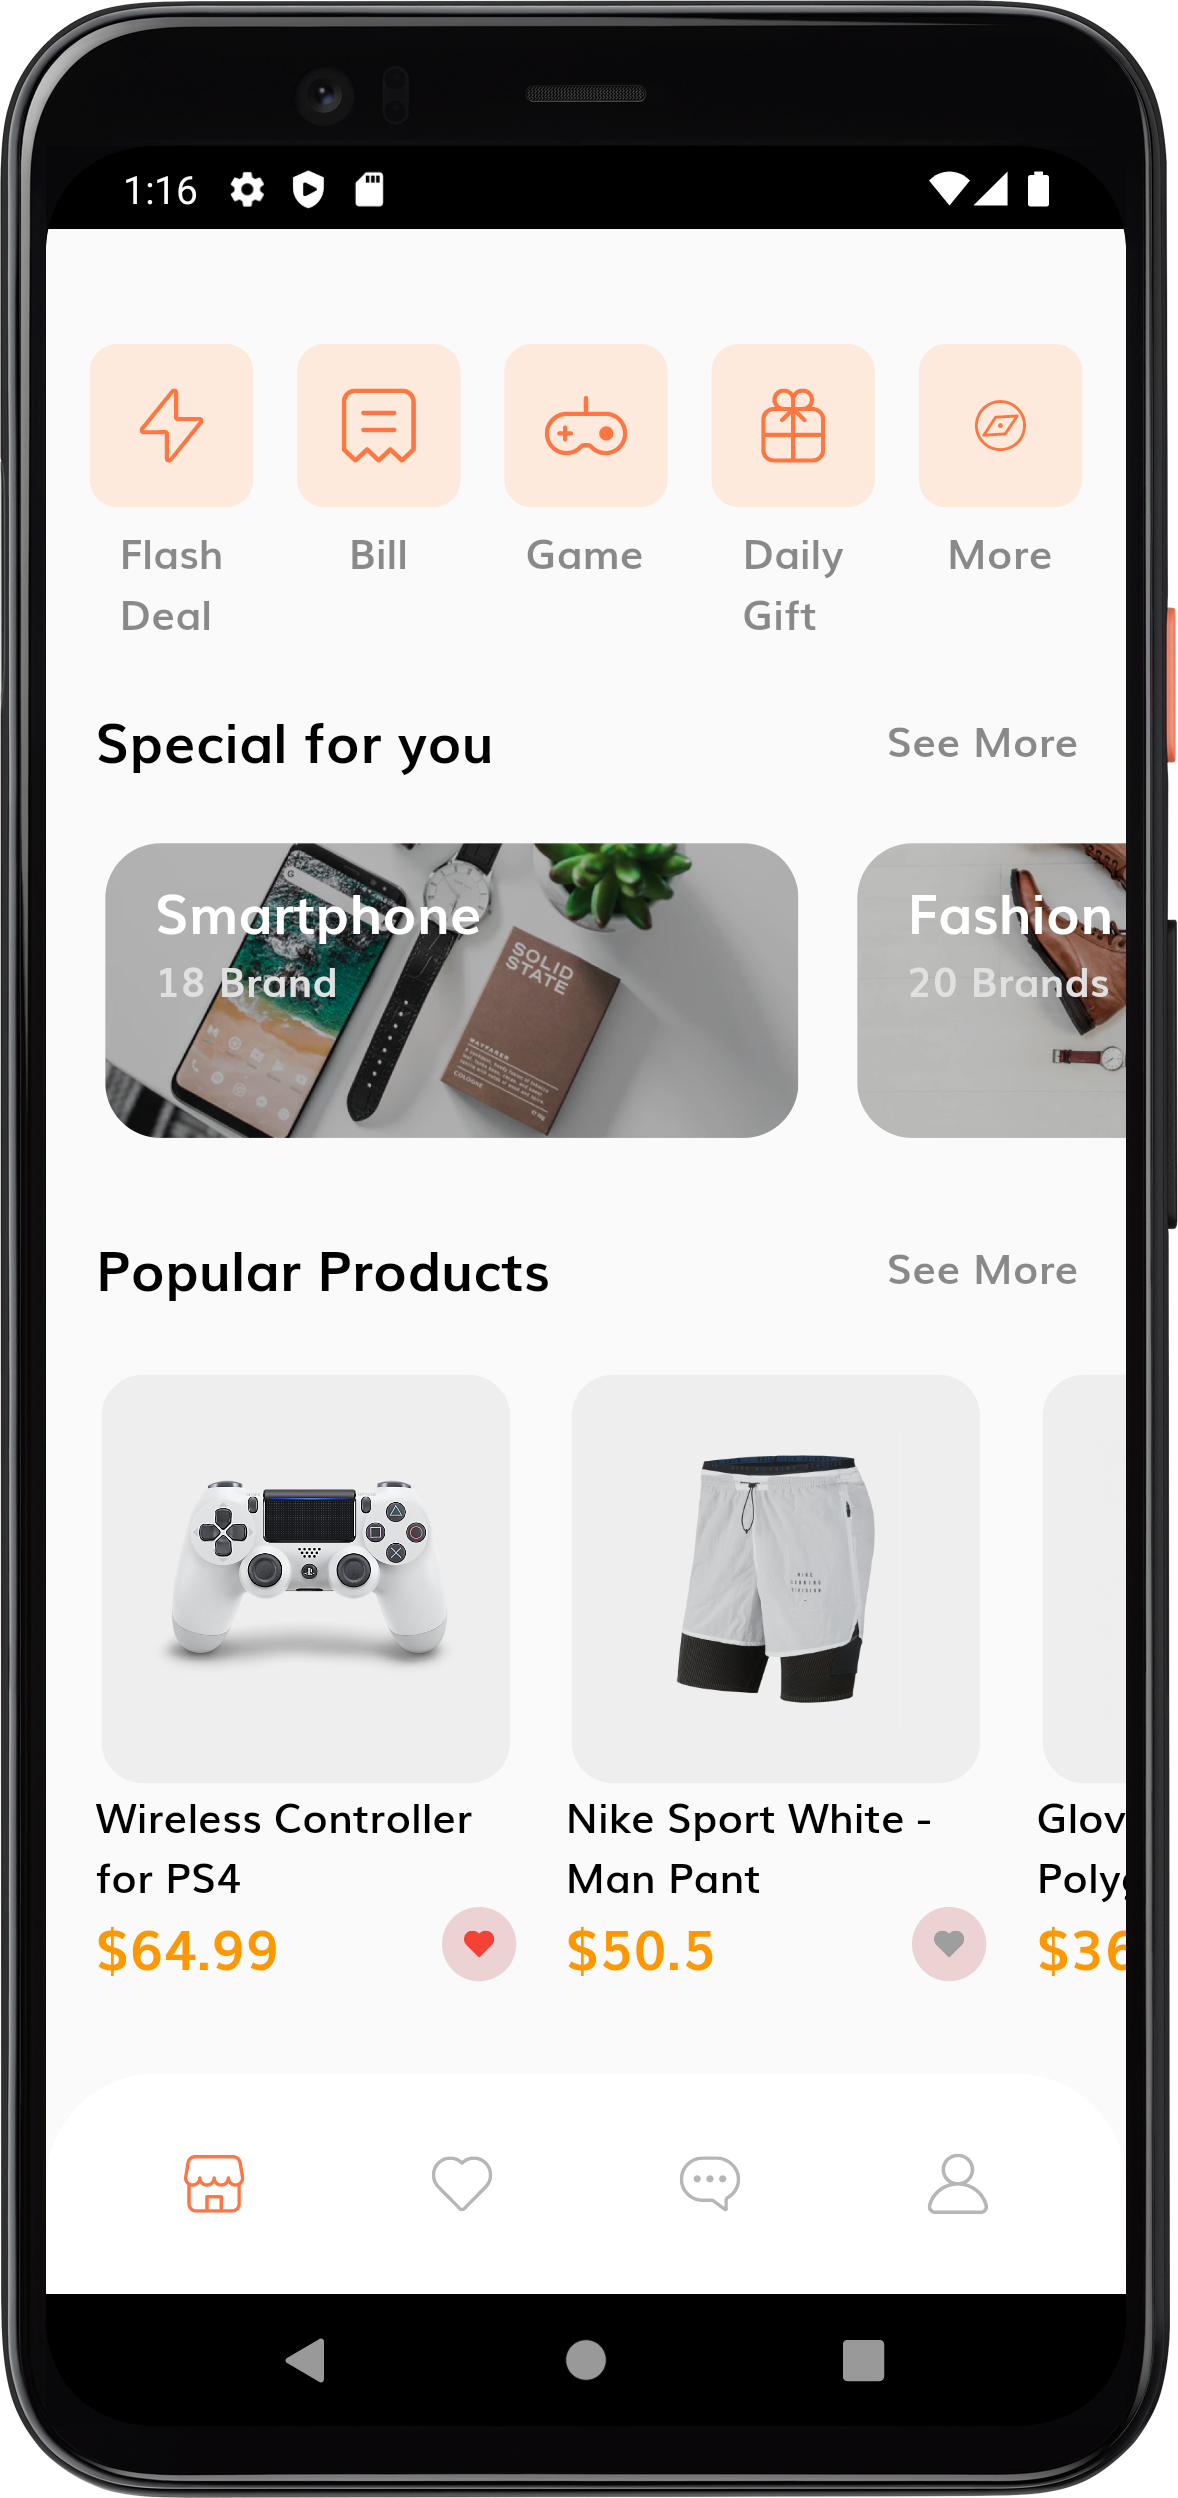
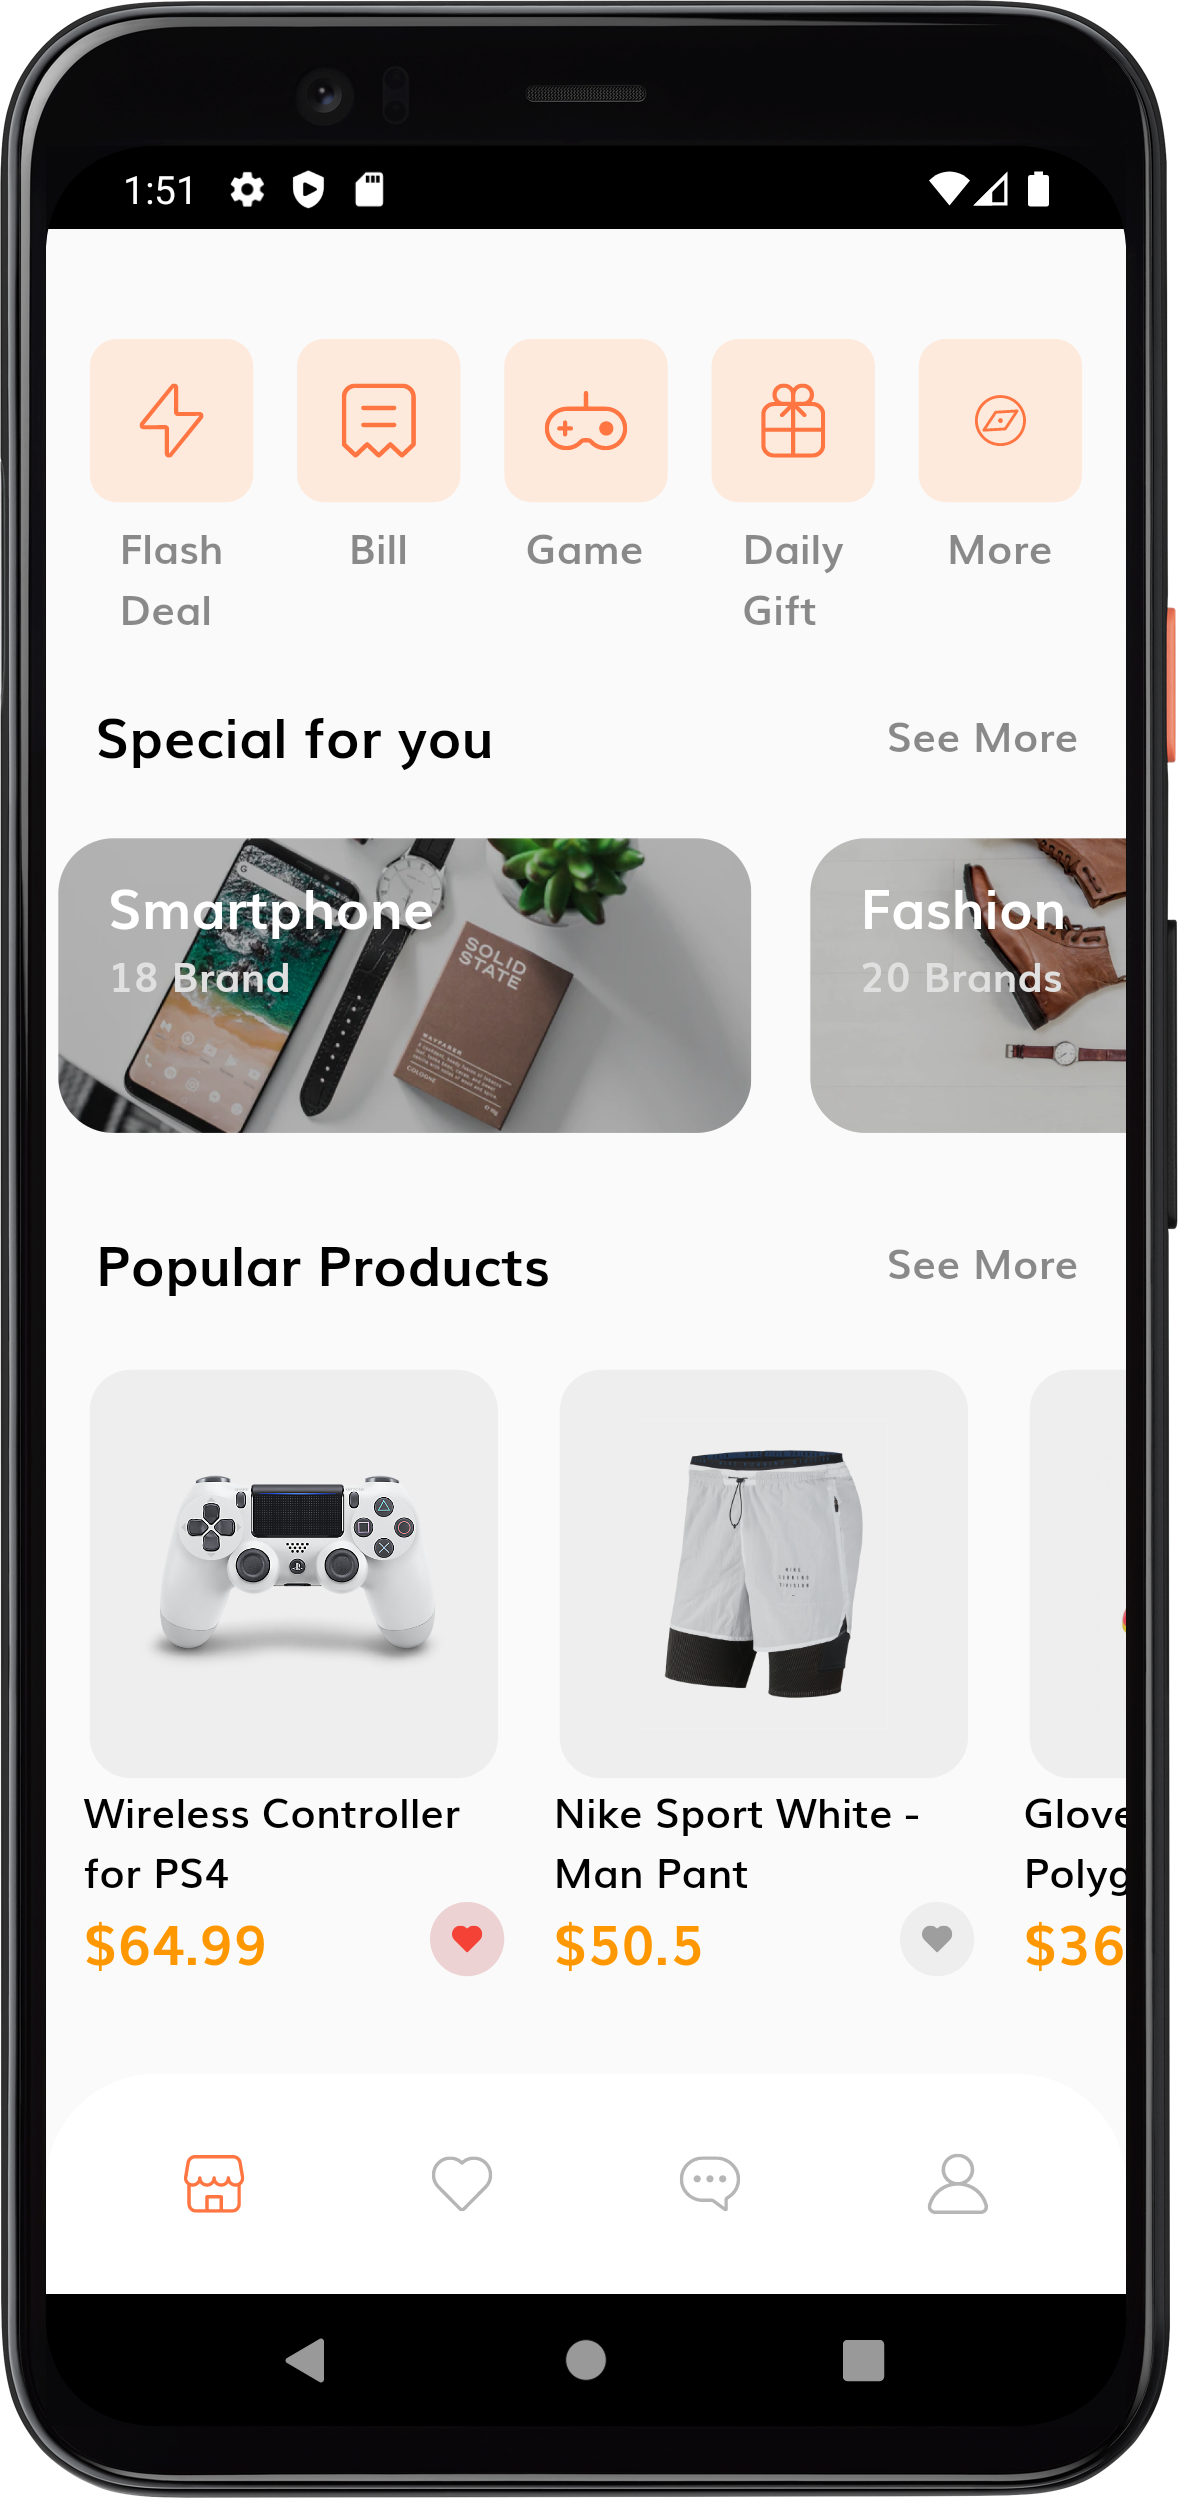
Fix color of heart buttons on press

diff --git a/lib/screens/home_screen.dart b/lib/screens/home_screen.dart
@@ -575,7 +575,7 @@ class _HomeScreenState extends State<HomeScreen> {
                                         height: Checkbox.width * 1.5,
                                         decoration: ShapeDecoration(
                                           shape: const CircleBorder(),
-                                          color: heart3IsPressed ?  const Color(0xD3E9CACA) : Colors.grey.shade200,
+                                          color: heart1IsPressed ?  const Color(0xD3E9CACA) : Colors.grey.shade200,
                                         ),
                                         child: IconButton(
                                           // color: Colors.red,
@@ -662,7 +662,7 @@ class _HomeScreenState extends State<HomeScreen> {
                                         height: Checkbox.width * 1.5,
                                         decoration: ShapeDecoration(
                                           shape: const CircleBorder(),
-                                          color: heart3IsPressed ?  const Color(0xD3E9CACA) : Colors.grey.shade200,
+                                          color: heart2IsPressed ?  const Color(0xD3E9CACA) : Colors.grey.shade200,
                                         ),
                                         child: IconButton(
                                           // color: Colors.red,
